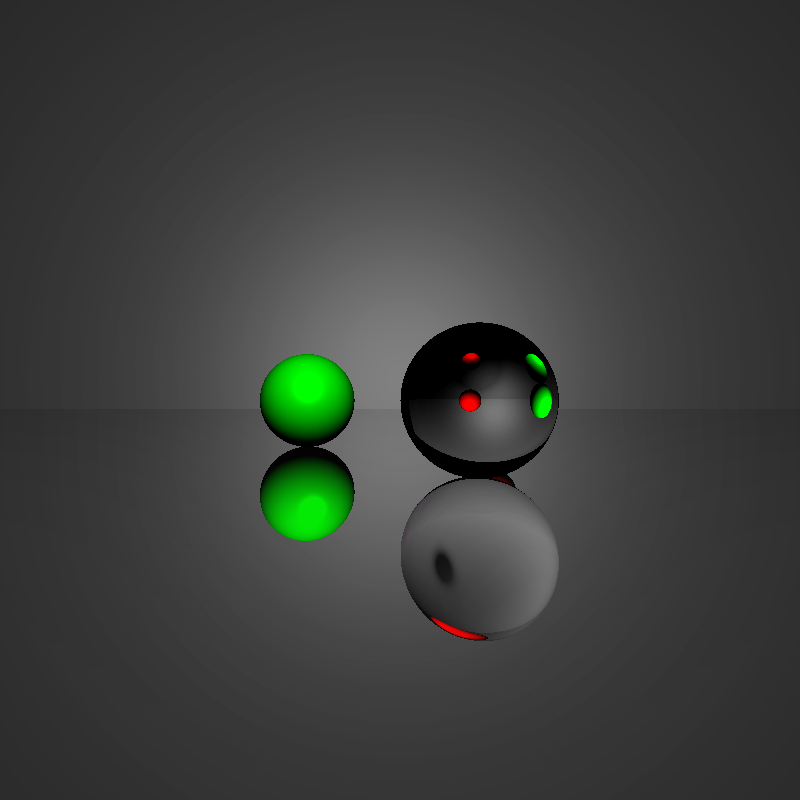
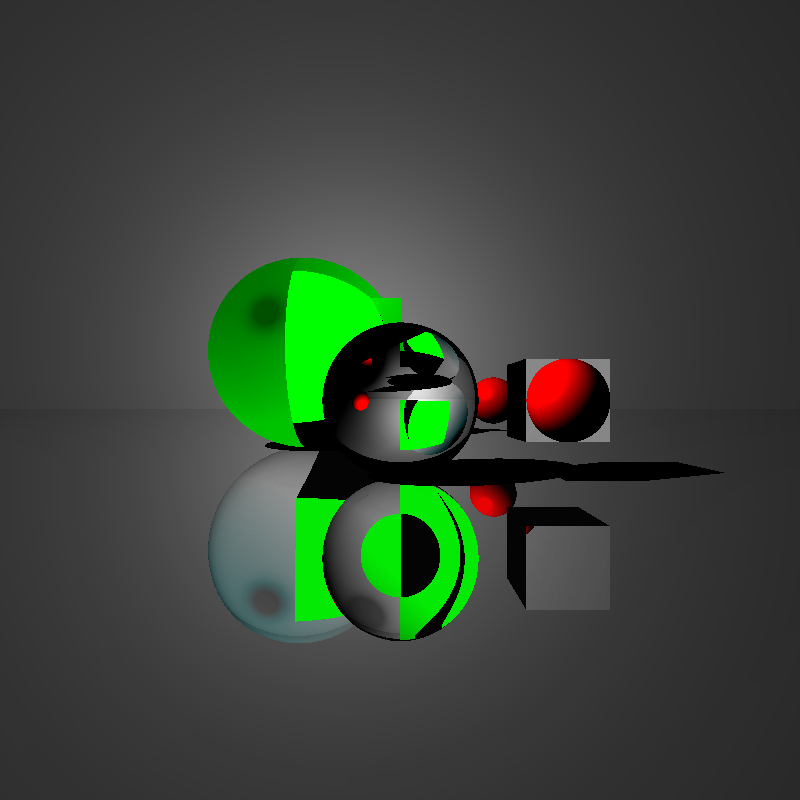
test i guess

Changed region(s): [[0.25, 0.3125, 0.9062, 0.8125]]

diff --git a/src/edu/up/isgc/cg/raytracer/Raytracer.java b/src/edu/up/isgc/cg/raytracer/Raytracer.java
@@ -18,6 +18,7 @@ import java.util.concurrent.Executors;
 import java.util.concurrent.TimeUnit;
 
 public class Raytracer {
+    private static final double SHADOW_BIAS = 1e-2;
     private static final int MAX_RAY_DEPTH = 3;
     private static final double EPSILON = 1e-3;
 
@@ -27,14 +28,14 @@ public class Raytracer {
 
         Scene scene = new Scene();
         scene.setCamera(new Camera(new Vector3D(0, 0, -5), 60, 60, 800, 800, 0.6, 60.0));
-        scene.addLight(new PointLight(new Vector3D(0.0, 5.0, -5.0), Material.NONE, 1));
+        scene.addLight(new PointLight(new Vector3D(-10.0, 10.0, -5.0), Material.NONE, 1));
 
         scene.addObject(new Model3D(new Vector3D(0, -1, 0),
                 new Triangle[]{
                         new Triangle(new Vector3D(-100, 0, -100), new Vector3D(100, 0, -100), new Vector3D(100, 0, 100)),
                         new Triangle(new Vector3D(-100, 0, -100), new Vector3D(100, 0, 100), new Vector3D(-100, 0, 100))
                 },
-                Material.MIRROR.instantiateWithColor(Color.DARK_GRAY)));
+                Material.MIRROR.colored(Color.DARK_GRAY)));
 
         scene.addObject(new Model3D(new Vector3D(0, -1, 0),
                 new Triangle[]{
@@ -42,15 +43,19 @@ public class Raytracer {
                                 50)),
                         new Triangle(new Vector3D(-100, -50, 50), new Vector3D(100, 50, 50), new Vector3D(-100, 50, 50))
                 },
-                Material.MATTE.instantiateWithColor(Color.DARK_GRAY)));
+                Material.MATTE.colored(Color.DARK_GRAY)));
 
-        scene.addObject(new Sphere(new Vector3D(1, 0, 1), 1, Material.GLASS));
+        scene.addObject(new Sphere(new Vector3D(0, 0, 1), 1, Material.GLASS));
+        Model3D cube = OBJReader.getModel3D("Cube.obj", new Vector3D(2, -.5, 1), Material.GLASS);
+        scene.addObject(cube);
+        Model3D green_cube = OBJReader.getModel3D("Cube.obj", new Vector3D(-1, 0, 5), Material.MATTE.colored(Color.GREEN));
+        green_cube.setScale(2);
+        scene.addObject(green_cube);
 
-        Material sphere_material = new Material(0.0, 1.0, 50);
+        Material sphere_material = new Material(0.0,1.0, 50);
 
-        // Background object
-        scene.addObject(new Sphere(new Vector3D(-2, 0, 5), 1.0, sphere_material.instantiateWithColor(Color.GREEN)));
-        scene.addObject(new Sphere(new Vector3D(2, 0, 5), 0.5, sphere_material.instantiateWithColor(Color.RED)));
+        scene.addObject(new Sphere(new Vector3D(2, 0, 5), 0.5, sphere_material.colored(Color.RED)));
+        scene.addObject(new Sphere(new Vector3D(-2, 1, 5), 2, Material.GLASS.colored(Color.PINK)));
 
         BufferedImage image = parallelImageRaytracing(scene);
         File outputImage = new File("image.png");
@@ -138,14 +143,14 @@ public class Raytracer {
 
                     Ray ray = new Ray(mainCamera.getPosition(), new Vector3D(x, y, z));
 
-                    Color pixelColor = calculateColor(mainCamera, objects, lights, ray, planes, 0);
+                    Color pixelColor = calculateColor(mainCamera, mainCamera, objects, lights, ray, planes, 0);
                     image.setRGB(i, j, pixelColor.getRGB());
                 }
             }
         };
     }
 
-    private static Color calculateColor(Object3D caster, List<Object3D> objects, List<Light> lights, Ray ray, double[] clippingPlanes, int depth) {
+    private static Color calculateColor(Camera camera, Object3D caster, List<Object3D> objects, List<Light> lights, Ray ray, double[] clippingPlanes, int depth) {
         Intersection closestIntersection = raycast(ray, objects, caster, clippingPlanes);
 
         Color pixelColor = Color.BLACK;
@@ -154,34 +159,36 @@ public class Raytracer {
 
             // Calculate lighting
             for (Light light : lights) {
+                Vector3D lightOff = Vector3D.substract(closestIntersection.getPosition(), Vector3D.scalarMultiplication(closestIntersection.getNormal(), SHADOW_BIAS));
+                Vector3D globalLight = Vector3D.substract(light.getPosition(), lightOff);
+                Ray shadowRay = new Ray(lightOff, globalLight);
+                Intersection shadowIntersection = raycast(shadowRay, objects, closestIntersection.getObject(), clippingPlanes);
+
+                if (shadowIntersection != null && shadowIntersection.getObject().getMaterial().getRefractivity() > 1.0) return pixelColor;
+
+                Vector3D viewDir = Vector3D.normalize(Vector3D.substract(camera.getPosition(), closestIntersection.getPosition()));
+                Vector3D lightDir = Vector3D.normalize(Vector3D.substract(light.getPosition(), closestIntersection.getPosition()));
+                Vector3D halfwayVector = Vector3D.normalize(Vector3D.add(lightDir, viewDir));
+
                 double nDotL = light.getNDotL(closestIntersection);
                 Color lightColor = light.getMaterial().getColor();
                 double intensity = light.getIntensity() * nDotL;
 
-                Vector3D lightDir = Vector3D.normalize(Vector3D.substract(light.getPosition(), closestIntersection.getPosition()));
-                Vector3D viewDir = Vector3D.normalize(Vector3D.substract(caster.getPosition(), closestIntersection.getPosition()));
-                Vector3D halfwayDir = Vector3D.normalize(Vector3D.add(lightDir, viewDir));
-
-                double specularIntensity = Math.pow(Math.max(Vector3D.dotProduct(halfwayDir, closestIntersection.getNormal()), 0), closestIntersection.getObject().getMaterial().getShininess());
+                double nDotH = Vector3D.dotProduct(closestIntersection.getNormal(), halfwayVector);
+                double specular = Math.pow(nDotH, closestIntersection.getObject().getMaterial().getShininess());
 
                 double[] lightColors = new double[]{lightColor.getRed() / 255.0, lightColor.getGreen() / 255.0, lightColor.getBlue() / 255.0};
                 double[] diffuseColors = new double[]{objColor.getRed() / 255.0, objColor.getGreen() / 255.0, objColor.getBlue() / 255.0};
-                double[] specularColors = new double[]{objColor.getRed() / 255.0, objColor.getGreen() / 255.0, objColor.getBlue() / 255.0};
 
                 for (int colorIndex = 0; colorIndex < diffuseColors.length; colorIndex++) {
-                    diffuseColors[colorIndex] *= intensity * lightColors[colorIndex];
-                    specularColors[colorIndex] *= specularIntensity * lightColors[colorIndex];
+                    diffuseColors[colorIndex] *= (intensity + specular) * lightColors[colorIndex];
                 }
 
                 Color diffuse = new Color((float) Math.clamp(diffuseColors[0], 0.0, 1.0),
                         (float) Math.clamp(diffuseColors[1], 0.0, 1.0),
                         (float) Math.clamp(diffuseColors[2], 0.0, 1.0));
-//
-                Color specular = new Color((float) Math.clamp(specularColors[0], 0.0, 1.0),
-                        (float) Math.clamp(specularColors[1], 0.0, 1.0),
-                        (float) Math.clamp(specularColors[2], 0.0, 1.0));
 
-                pixelColor = addColor(specular, diffuse);
+                pixelColor = addColor(pixelColor, diffuse);
             }
 
             // Handle reflection
@@ -190,7 +197,7 @@ public class Raytracer {
                 Vector3D offset = Vector3D.scalarMultiplication(closestIntersection.getNormal(), EPSILON);
                 Vector3D reflectedOrigin = Vector3D.add(closestIntersection.getPosition(), offset);
                 Ray reflectedRay = new Ray(reflectedOrigin, reflectedVector);
-                Color reflectedColor = calculateColor(closestIntersection.getObject(), objects, lights, reflectedRay, clippingPlanes, depth + 1);
+                Color reflectedColor = calculateColor(camera, closestIntersection.getObject(), objects, lights, reflectedRay, clippingPlanes, depth + 1);
                 pixelColor = blendColors(pixelColor, reflectedColor, closestIntersection.getObject().getMaterial().getReflectivity());
             }
 
@@ -203,7 +210,7 @@ public class Raytracer {
                     Vector3D offset = Vector3D.scalarMultiplication(closestIntersection.getNormal(), EPSILON);
                     Vector3D refractedOrigin = Vector3D.add(closestIntersection.getPosition(), offset);
                     Ray refractedRay = new Ray(refractedOrigin, refractedDir);
-                    Color refractedColor = calculateColor(closestIntersection.getObject(), objects, lights, refractedRay, clippingPlanes, depth + 1);
+                    Color refractedColor = calculateColor(camera, closestIntersection.getObject(), objects, lights, refractedRay, clippingPlanes, depth + 1);
                     pixelColor = blendColors(pixelColor, refractedColor, closestIntersection.getObject().getMaterial().getRefractivity());
                 }
             }
@@ -252,8 +259,19 @@ public class Raytracer {
     }
 
     public static Vector3D refract(Vector3D incident, Vector3D normal, double n1, double n2) {
-        double ratio = n1 / n2;
         double cosI = -Vector3D.dotProduct(normal, incident);
+
+        if (cosI < 0) {
+            // Ray is inside the object, swap refractive indices and invert the normal
+            double temp = n1;
+            n1 = n2;
+            n2 = temp;
+            normal = Vector3D.scalarMultiplication(normal, -1);
+            cosI = -cosI;
+        }
+
+        double ratio = n1 / n2;
+
         double sinT2 = ratio * ratio * (1.0 - cosI * cosI);
         if (sinT2 > 1.0) {
             return null; // Total internal reflection

diff --git a/src/edu/up/isgc/cg/raytracer/tools/Material.java b/src/edu/up/isgc/cg/raytracer/tools/Material.java
@@ -12,7 +12,7 @@ public class Material {
     public static Material MATTE = new Material(0.0, 1.0, 15.0);
     public static Material GLASS = new Material(0.1, 1.5, 50.0);
     public static Material NONE = new Material(0.0, 0.0, 0.0);
-    public static Material METAL = new Material(0.95, 0.0, 200);
+    public static Material METAL = new Material(0.8, 0.0, 10);
 
     public Material(Color color, double reflectivity, double refractivity, double shininess) {
         this.color = color;
@@ -27,7 +27,7 @@ public class Material {
         this.shininess = shininess;
     }
 
-    public Material instantiateWithColor(Color color) {
+    public Material colored(Color color) {
         return new Material(color, reflectivity, refractivity, shininess);
     }
 
